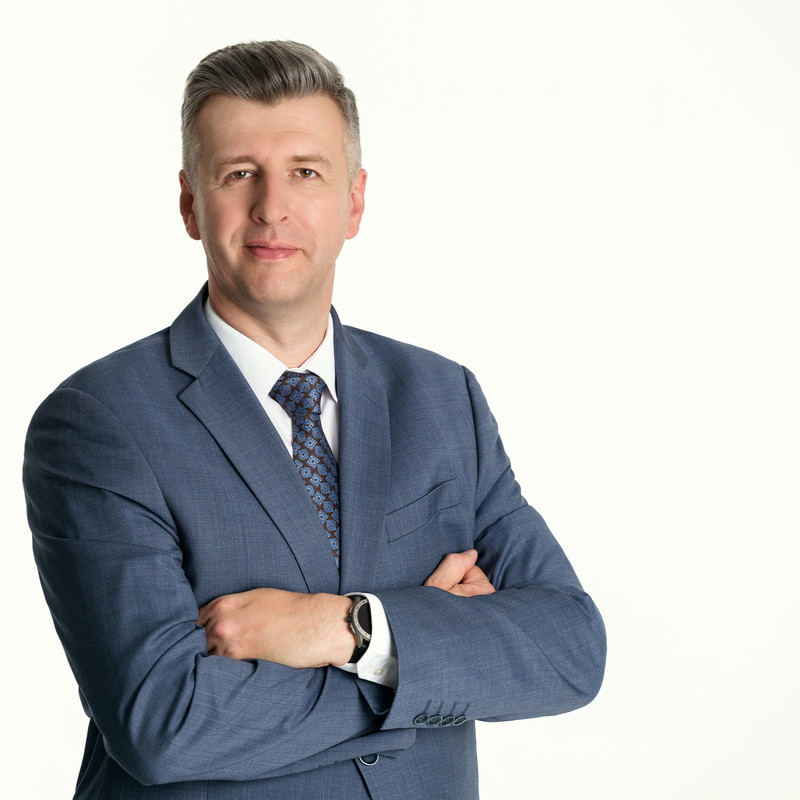
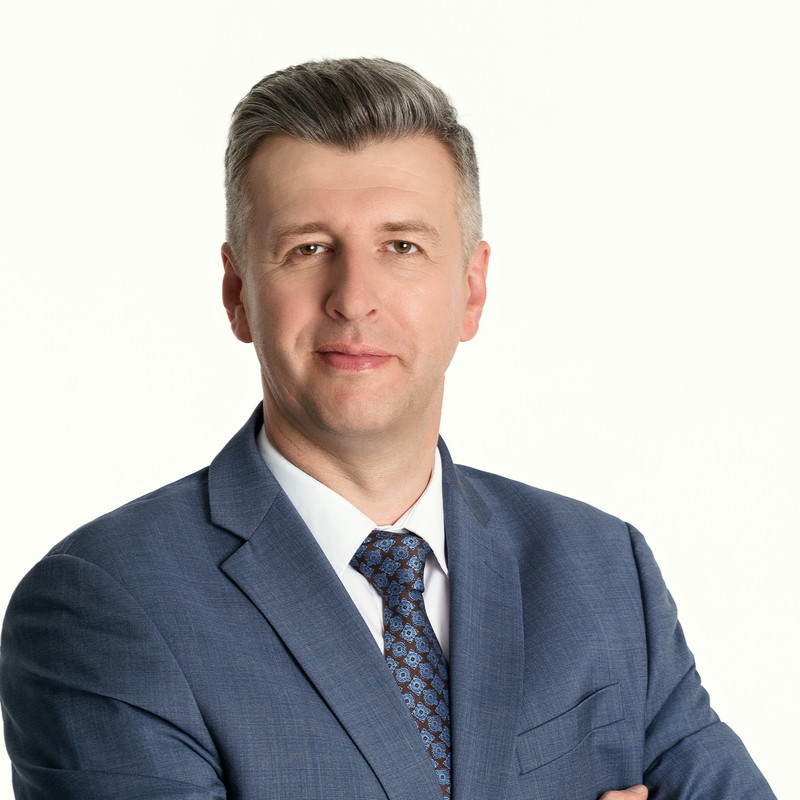
Align Oganov and Chekhovich portraits (#23)

diff --git a/index.html b/index.html
@@ -171,7 +171,7 @@
       <i>Директор по развитию технологий ИИ</i></a></li><li class="gu"><a href="vypuski/aleksandr-tormasov/">
       <span class="av"><img src="assets/photo/aleksandr-tormasov.jpg" alt="" loading="lazy" width="300" height="300"></span><b>Александр Тормасов</b>
       <i>Профессор МФТИ</i></a></li><li class="gu"><a href="vypuski/artem-oganov/">
-      <span class="av"><img src="assets/photo/artem-oganov.jpg" alt="" loading="lazy" width="300" height="300"></span><b>Артём Оганов</b>
+      <span class="av"><img src="assets/photo/kv/artem-oganov.jpg?v=20260911-align" alt="" loading="lazy" width="300" height="300"></span><b>Артём Оганов</b>
       <i>Кристаллограф</i></a></li><li class="gu"><a href="vypuski/aleksey-savvateev/"><span class="av"><img src="assets/photo/aleksey-savvateev.jpg" alt="" loading="lazy" width="300" height="300"></span><b>Алексей Савватеев</b><i>Математик</i></a></li><li class="gu"><a href="vypuski/andrey-kuznetsov/">
       <span class="av"><img src="assets/photo/andrey-kuznetsov.jpg" alt="" loading="lazy" width="300" height="300"></span><b>Андрей Кузнецов</b>
       <i>Директор лаборатории FusionBrain</i></a></li><li class="gu"><a href="vypuski/nikolay-andreev/">
@@ -183,7 +183,7 @@
       <i>Заместитель председателя правительства Нижегородской области</i></a></li><li class="gu"><a href="vypuski/dmitriy-schegolev/">
       <span class="av"><img src="assets/photo/dmitriy-schegolev.jpg" alt="" loading="lazy" width="300" height="300"></span><b>Дмитрий Щеголев</b>
       <i>Ректор Нижегородского архитектурно-строительного университета</i></a></li><li class="gu"><a href="vypuski/yuriy-chehovich/">
-      <span class="av"><img src="assets/photo/yuriy-chehovich.jpg" alt="" loading="lazy" width="300" height="300"></span><b>Юрий Чехович</b>
+      <span class="av"><img src="assets/photo/kv/yuriy-chehovich.jpg?v=20260911-align" alt="" loading="lazy" width="300" height="300"></span><b>Юрий Чехович</b>
       <i>Завлабораторией ИПУ РАН</i></a></li><li class="gu"><a href="vypuski/vladimir-maksimenko/">
       <span class="av"><img src="assets/photo/vladimir-maksimenko.jpg" alt="" loading="lazy" width="300" height="300"></span><b>Владимир Максименко</b>
       <i>Профессор</i></a></li><li class="gu"><a href="vypuski/aleksandr-korotin/">
